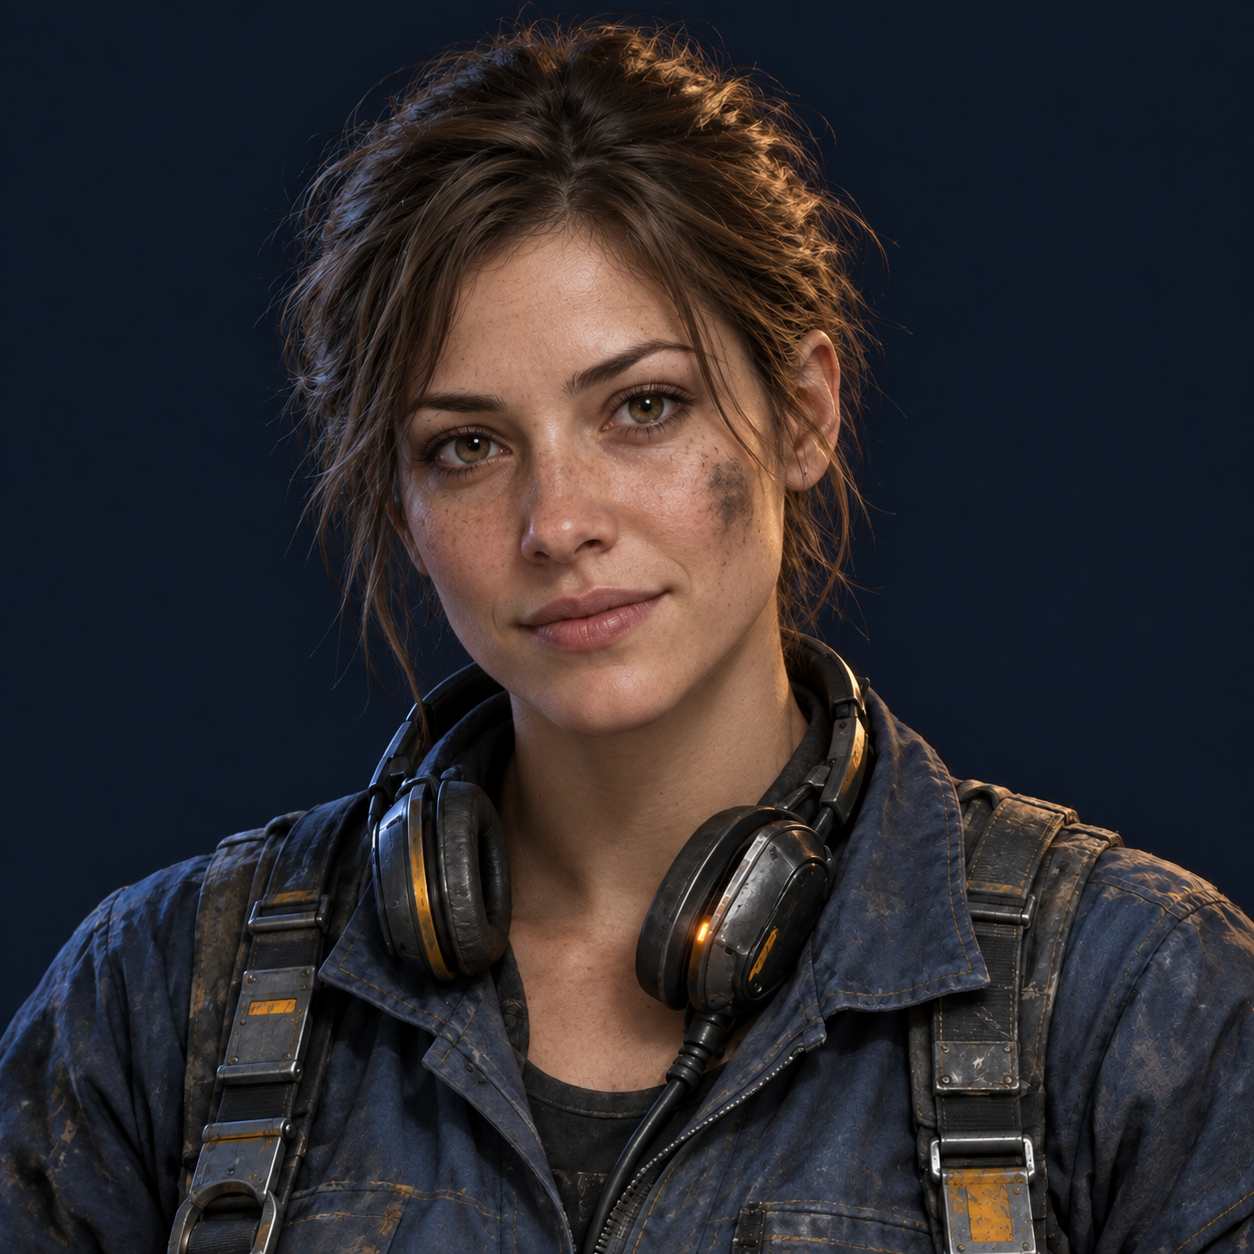
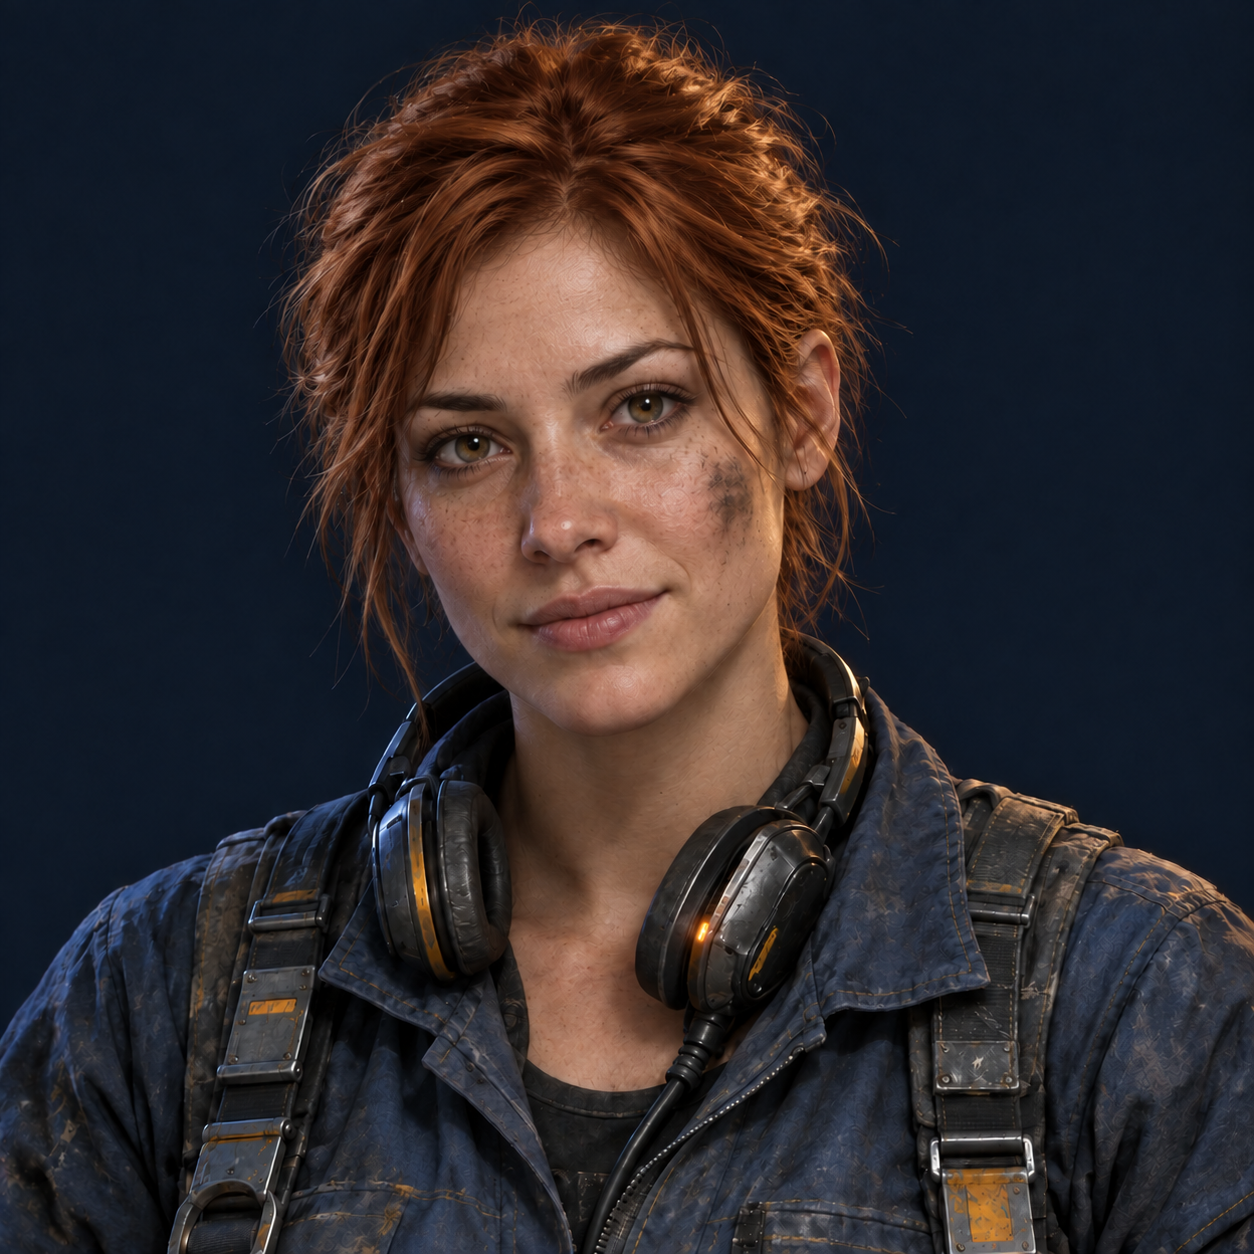
Ева Морен — медно-рыжая
Портрет перекрашен: те же лицо, поза и одежда, волосы естественного медно-рыжего цвета.
Обновлены исходник и игровой WebP 256×256.

diff --git a/art/story/quiet-war/eva-refresh.md b/art/story/quiet-war/eva-refresh.md
@@ -1,5 +1,9 @@
 # Ева Морен — обновление 2026-09-27
 
+Дополнение: по запросу пользователя волосы перекрашены в естественный медно-рыжий цвет встроенным image_gen. Обновлены тот же исходник и игровой WebP. Промпт перекраски:
+
+Use case: identity-preserve. Edit the provided portrait of Eva Moren. Change ONLY the hair color from brown to natural, clearly visible copper ginger red hair, with warm auburn shadows and copper highlights. Keep the exact same woman, youthful face, eyes, freckles, expression, skin, grease smudge, hairstyle and individual loose strands, pose, clothing, headset, straps, background, lighting and square composition unchanged. Preserve realistic hair texture; no neon orange or artificial saturated red. No other changes.
+
 Новый портрет создан встроенным image_gen по прежнему изображению как референсу стиля, одежды и композиции. Ева — молодая взрослая девушка 22–25 лет, с мягкими чертами, лёгкой улыбкой и собранными волосами. Сохранены наушники, потёртая рабочая куртка и следы грязи.
 
 Исходник: `sources/portrait-eva.png`. Игровая версия: `client/public/portraits/eva.webp`, 256×256, собрана штатным `tools/portraits.py`. Существующая привязка имени в `client/src/ui/dialog.ts` использует новый файл автоматически.
